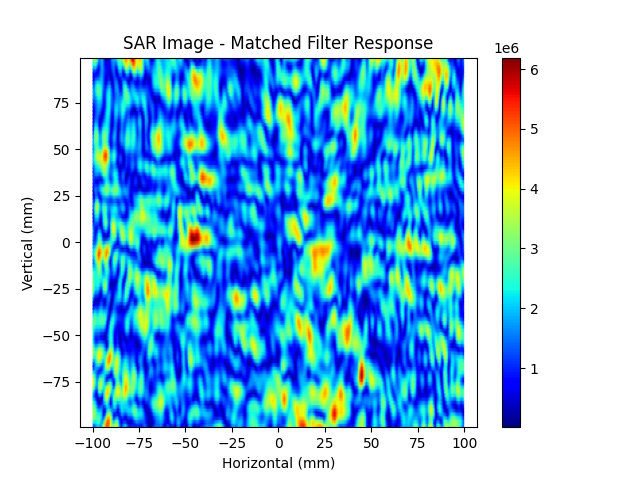
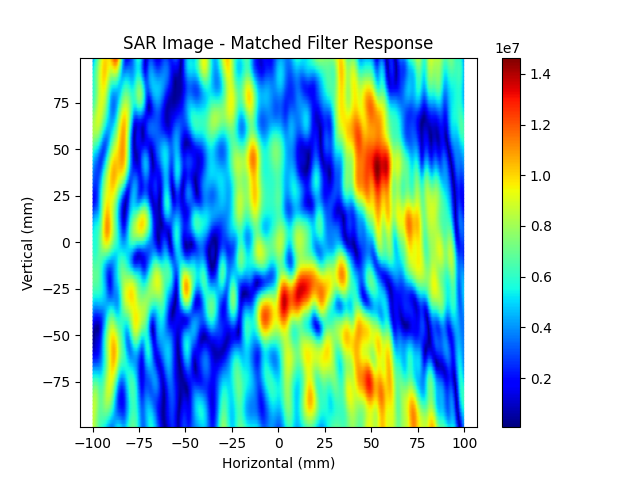
Update SAR Data Capture Scripts: Adjust z0 parameter, implement motor start polling, and remove obsolete revision

diff --git a/SoftwareDemo/GantryFunctionality/MotorTest/motorTest_rev13.py b/SoftwareDemo/GantryFunctionality/MotorTest/motorTest_rev13.py
@@ -197,6 +197,7 @@ def up(dist_mm):
     # print(f"DEBUG: Moving UP {dist_mm} mm, duration {duration:.2f}s")
     dirY.on() # Set direction to CW
     pulY.start(duty_cycle)
+    print("MOTOR_STARTED")
     sleep(duration) # Seconds
     pulY.stop()
 
@@ -205,6 +206,7 @@ def down(dist_mm):
     # print(f"DEBUG: Moving DOWN {dist_mm} mm, duration {duration:.2f}s")
     dirY.off() # Set direction to CCW
     pulY.start(duty_cycle)
+    print("MOTOR_STARTED")
     sleep(duration) # Seconds
     pulY.stop()
 
@@ -213,6 +215,7 @@ def right(dist_mm):
     # print(f"DEBUG: Moving RIGHT {dist_mm} mm, duration {duration:.2f}s")
     dirX.on() # Set direction to CW
     pulX.start(duty_cycle)
+    print("MOTOR_STARTED")
     sleep(duration) # Seconds
     pulX.stop()
 
@@ -221,6 +224,7 @@ def left(dist_mm):
     # print(f"DEBUG: Moving LEFT {dist_mm} mm, duration {duration:.2f}s")
     dirX.off() # Set direction to CCW
     pulX.start(duty_cycle)
+    print("MOTOR_STARTED")
     sleep(duration) # Seconds
     pulX.stop()
 

diff --git a/Safehaven-Lua/mainSARneuronauts2py.py b/Safehaven-Lua/mainSARneuronauts2py.py
@@ -258,7 +258,10 @@ def main():
     
     # Parameters
     n_fft_time = 1024
-    z0 = 323e-3
+    z0 = 600e-3
+    #z0 = 323e-3
+    #adjust this for how far target is
+    #default for cranidetect was the
     dx = 290/400
     dy = 205/100 # Note: As per original MATLAB code
     n_fft_space = 1024
